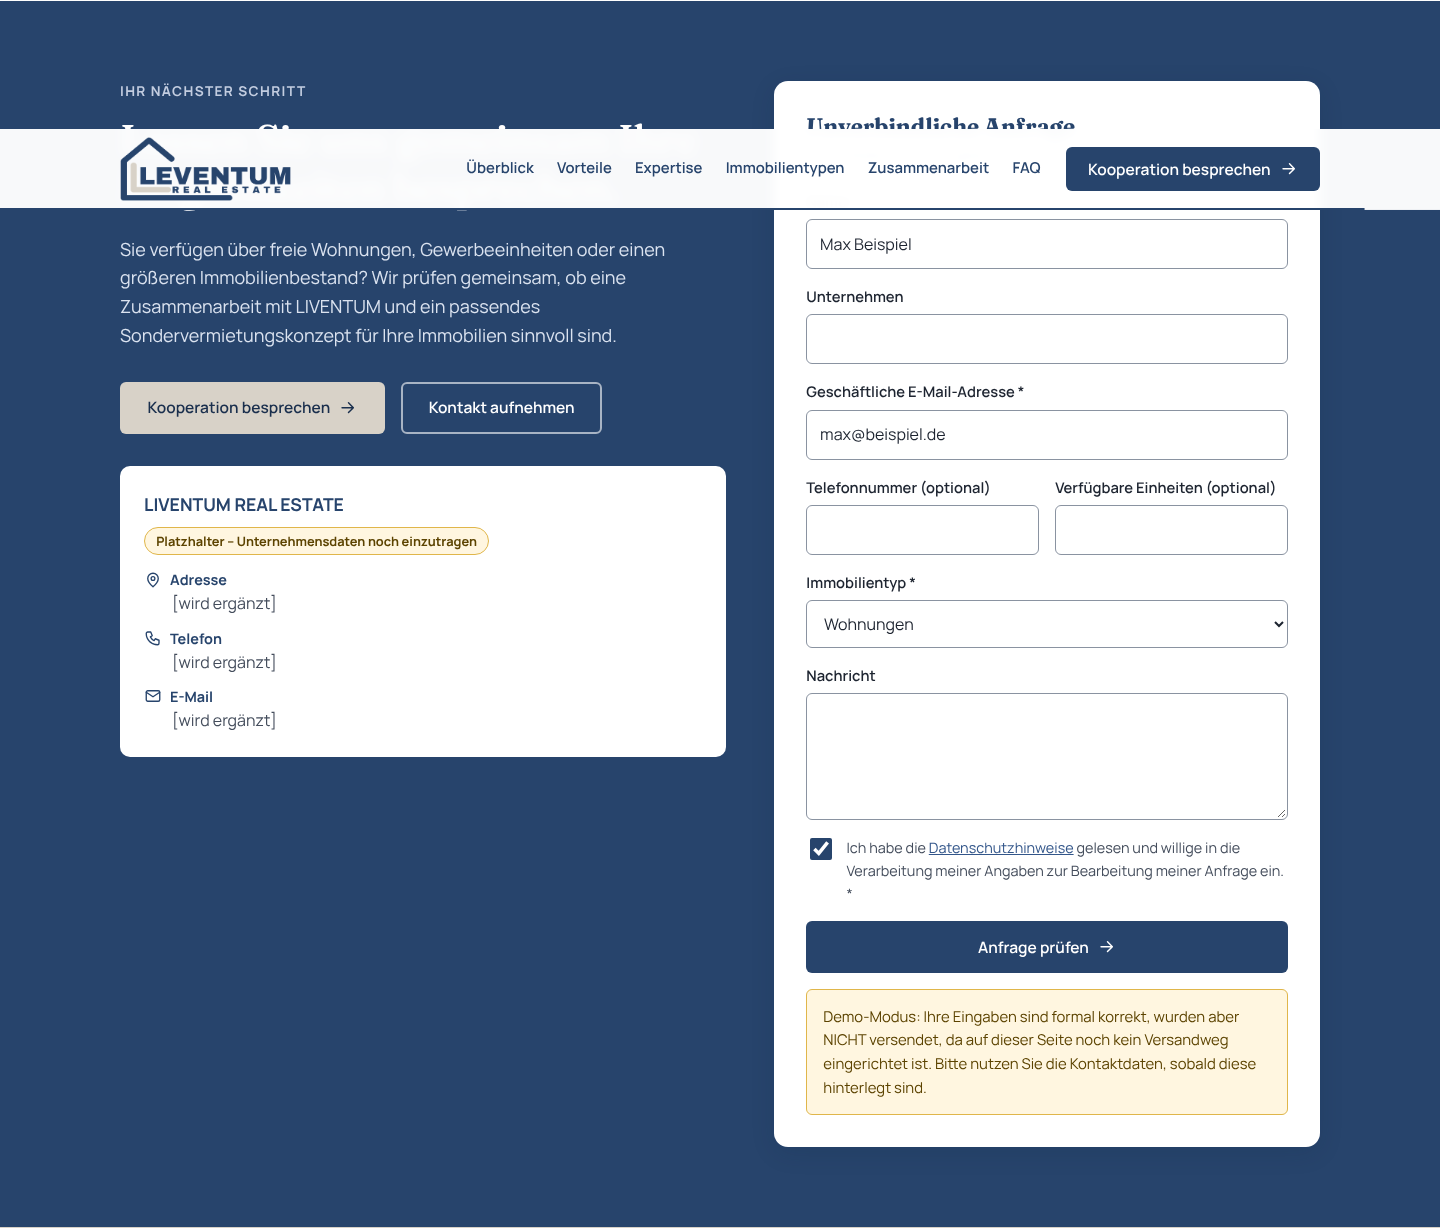
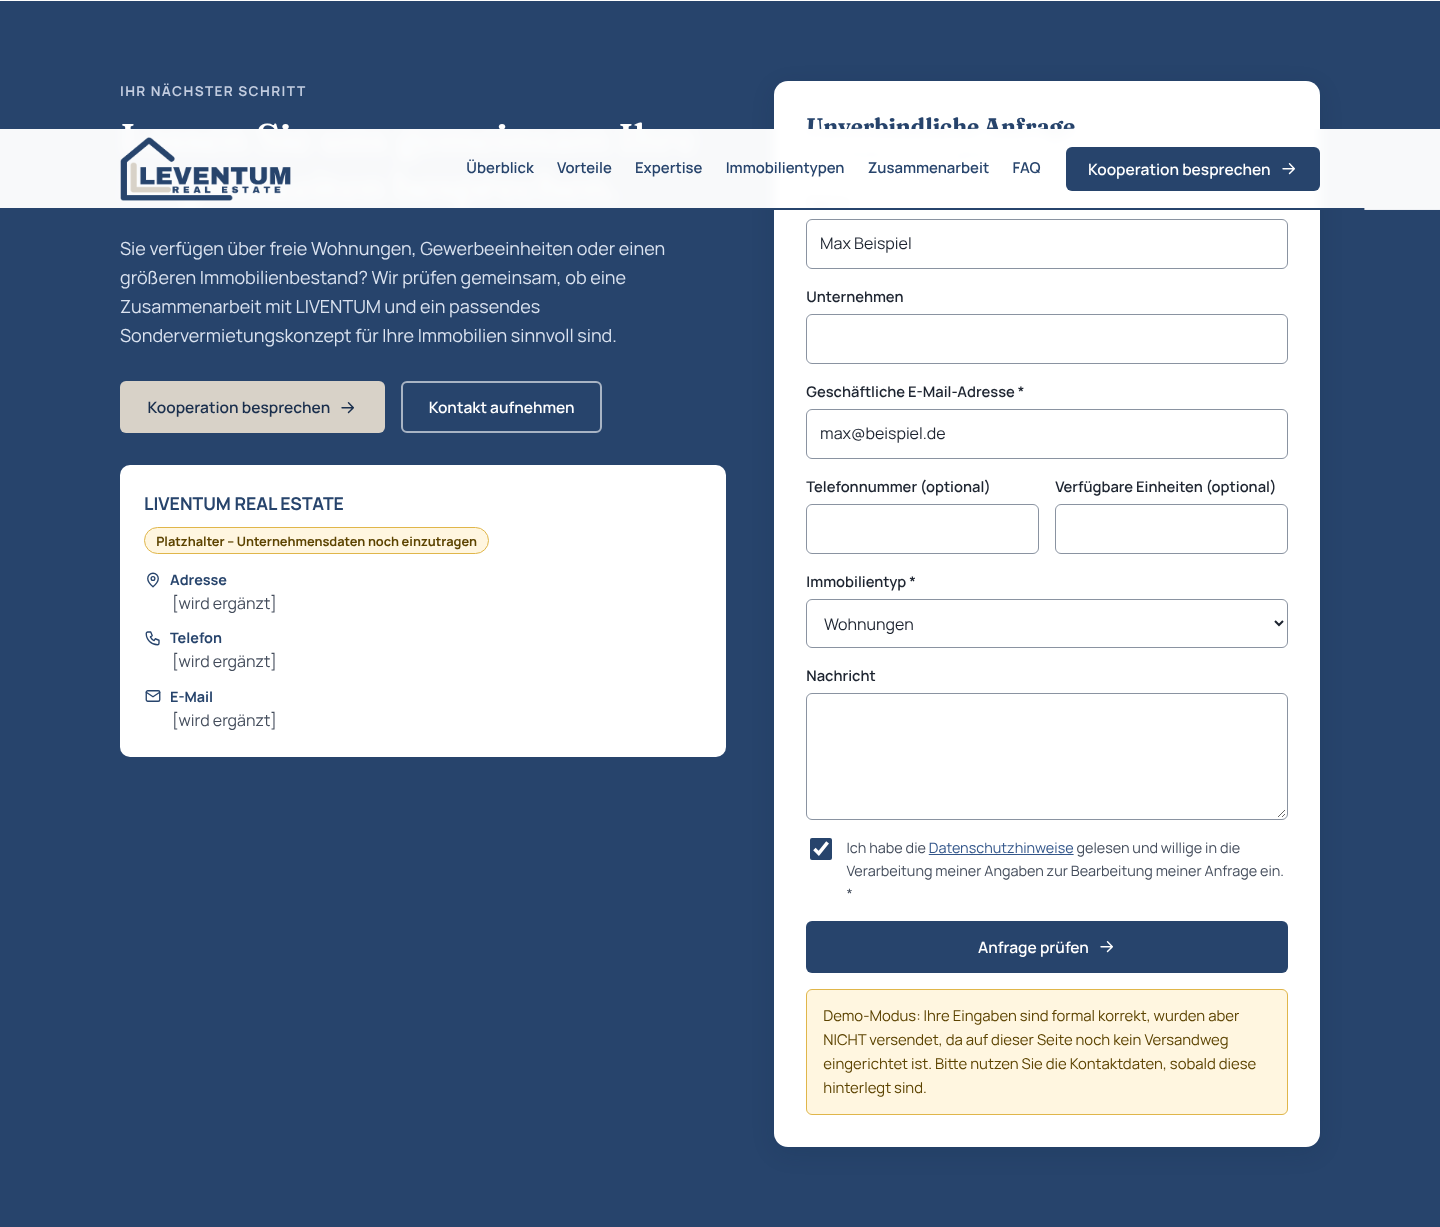
CRM: freigestelltes Laptop-Mockup mit weichem Schatten statt Dashboard-Bild
Claude-Session: https://claude.ai/code/session_01KEcscF8ABiEHPf9rzLQ9PG

diff --git a/css/sections.css b/css/sections.css
@@ -286,9 +286,10 @@
 .crm-points li { font-size: 1.08rem; font-weight: 600; color: var(--navy-800); padding-left: 1.9rem; }
 .crm-points li::before { top: 0.3em; width: 1.15em; height: 1.15em; background: var(--bronze); }
 .crm-figure { margin: 0; min-width: 0; }
-.crm-frame { border: 1px solid var(--sand); border-radius: var(--radius-lg); overflow: hidden; background: #fff; box-shadow: var(--shadow-md); }
-.crm-frame img { width: 100%; height: auto; }
-.crm-figure figcaption { margin-top: 0.75rem; font-size: 0.85rem; color: var(--grey-500); }
+.crm-frame { position: relative; isolation: isolate; }
+.crm-frame img { width: 100%; height: auto; filter: drop-shadow(0 22px 26px rgba(26, 47, 77, 0.22)); }
+.crm-frame::after { content: ""; position: absolute; z-index: -1; left: 6%; right: 6%; bottom: -6px; height: 26px; background: radial-gradient(ellipse at center, rgba(26, 47, 77, 0.28), transparent 70%); filter: blur(5px); }
+.crm-figure figcaption { margin-top: 1.5rem; font-size: 0.85rem; color: var(--grey-500); }
 @media (max-width: 900px) {
   .crm-grid { grid-template-columns: minmax(0, 1fr); gap: var(--space-4); }
   .crm-points li { font-size: 1rem; }

diff --git a/index.html b/index.html
@@ -257,7 +257,7 @@
         </div>
         <figure class="crm-figure">
           <div class="crm-frame">
-            <img src="assets/img/crm-dashboard.webp" width="1400" height="933" loading="lazy" alt="Beispielansicht eines Verwaltungs-Dashboards mit Kennzahlen zu Mietern, Objekten, Verträgen und Aufgaben sowie dem Beispielmieter Max Mustermann">
+            <img src="assets/img/crm-laptop.webp" width="1486" height="888" loading="lazy" alt="Laptop mit Beispielansicht eines Verwaltungs-Dashboards: Kennzahlen zu Mietern, Objekten, Verträgen und Aufgaben sowie Beispielmieter Max Mustermann">
           </div>
           <figcaption>Beispielansicht (Mockup). Dargestellte Daten sind fiktiv.</figcaption>
         </figure>
